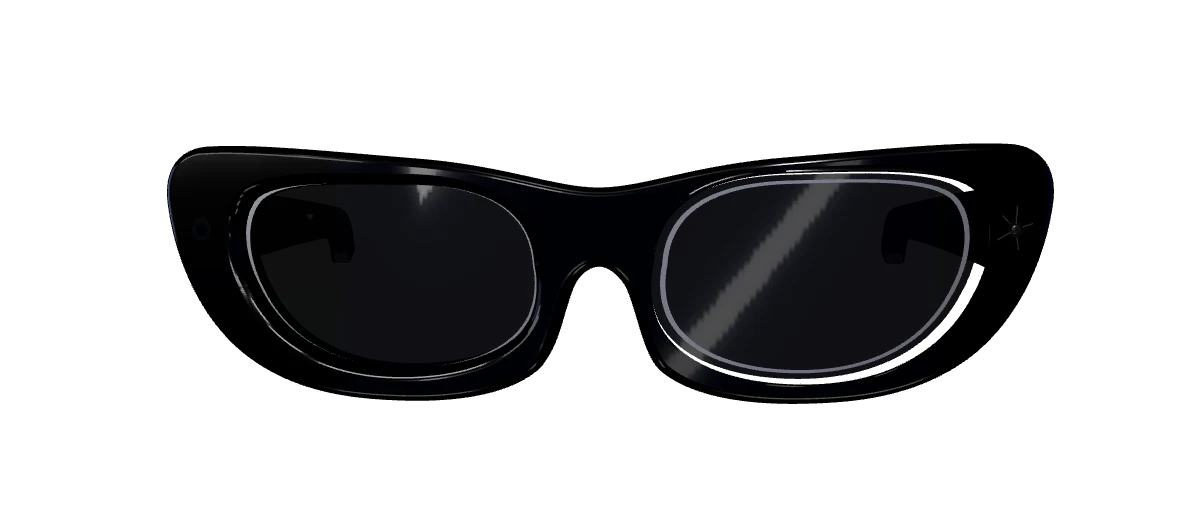
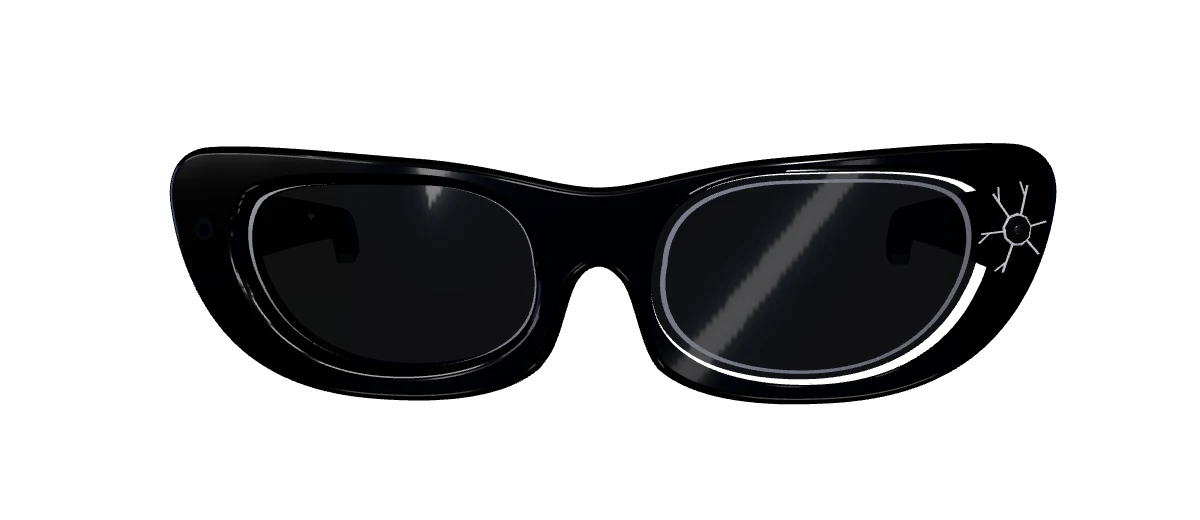
Damaged light: larger shattered pit with bright cracks

diff --git a/src/three/Glasses3D.jsx b/src/three/Glasses3D.jsx
@@ -161,6 +161,10 @@ function OnFront({ x, y, lift = 0.004, children, groupRef }) {
   )
 }
 
+// Damaged-light cracks: [angle, length, branch side]
+const CRACKS = [[0.25, 0.06, 0], [1.35, 0.1, 1], [2.25, 0.1, -1], [3.25, 0.085, 1], [4.35, 0.1, -1], [5.5, 0.065, 0]]
+const crackMat = <meshStandardMaterial color="#dfe3ea" emissive="#9aa1ad" emissiveIntensity={0.7} metalness={0.5} roughness={0.25} />
+
 export default function Glasses3D({ state = 'recording', ledRef, groupRef, ...props }) {
   const recording = state === 'recording'
   const { front, lenses, rings, temple } = useGeometries()
@@ -253,19 +257,35 @@ export default function Glasses3D({ state = 'recording', ledRef, groupRef, ...pr
         <sprite ref={glow} scale={[0.2, 0.2, 1]} position={[0, 0, 0.01]}>
           <spriteMaterial map={glowTex} transparent depthWrite={false} blending={THREE.AdditiveBlending} toneMapped={false} />
         </sprite>
-        {/* damaged light: dark broken pit with cracks spreading from it */}
+        {/* damaged light: shattered pit with bright cracks spreading across the frame */}
         {state === 'damaged' && (
           <group position={[0, 0, 0.008]}>
             <mesh rotation={[Math.PI / 2, 0, 0]}>
-              <cylinderGeometry args={[0.03, 0.026, 0.006, 7]} />
-              <meshStandardMaterial color="#050506" roughness={0.9} />
+              <cylinderGeometry args={[0.05, 0.042, 0.008, 7]} />
+              <meshStandardMaterial color="#020203" roughness={1} />
             </mesh>
-            {[0.3, 1.5, 2.4, 3.6, 4.9].map((a, i) => (
-              <mesh key={i} rotation={[0, 0, a]} position={[Math.cos(a) * 0.048, Math.sin(a) * 0.048, 0.002]}>
-                <boxGeometry args={[0.04 + (i % 2) * 0.02, 0.0035, 0.003]} />
-                <meshStandardMaterial color="#9aa0aa" metalness={0.8} roughness={0.25} />
-              </mesh>
-            ))}
+            {/* jagged rim of broken plastic */}
+            <mesh rotation={[0, 0, 0.2]}>
+              <torusGeometry args={[0.05, 0.006, 4, 9]} />
+              <meshStandardMaterial color="#c9ced8" emissive="#8a909c" emissiveIntensity={0.5} metalness={0.6} roughness={0.3} />
+            </mesh>
+            {CRACKS.map(([ang, len, branch], i) => {
+              const r0 = 0.05
+              return (
+                <group key={i} rotation={[0, 0, ang]}>
+                  <mesh position={[r0 + len / 2, 0, 0.003]}>
+                    <boxGeometry args={[len, 0.006, 0.004]} />
+                    {crackMat}
+                  </mesh>
+                  {branch && (
+                    <mesh position={[r0 + len * 0.6 + 0.025, 0.015 * branch, 0.003]} rotation={[0, 0, 0.6 * branch]}>
+                      <boxGeometry args={[0.05, 0.0045, 0.004]} />
+                      {crackMat}
+                    </mesh>
+                  )}
+                </group>
+              )
+            })}
           </group>
         )}
         {state === 'covered' && (
